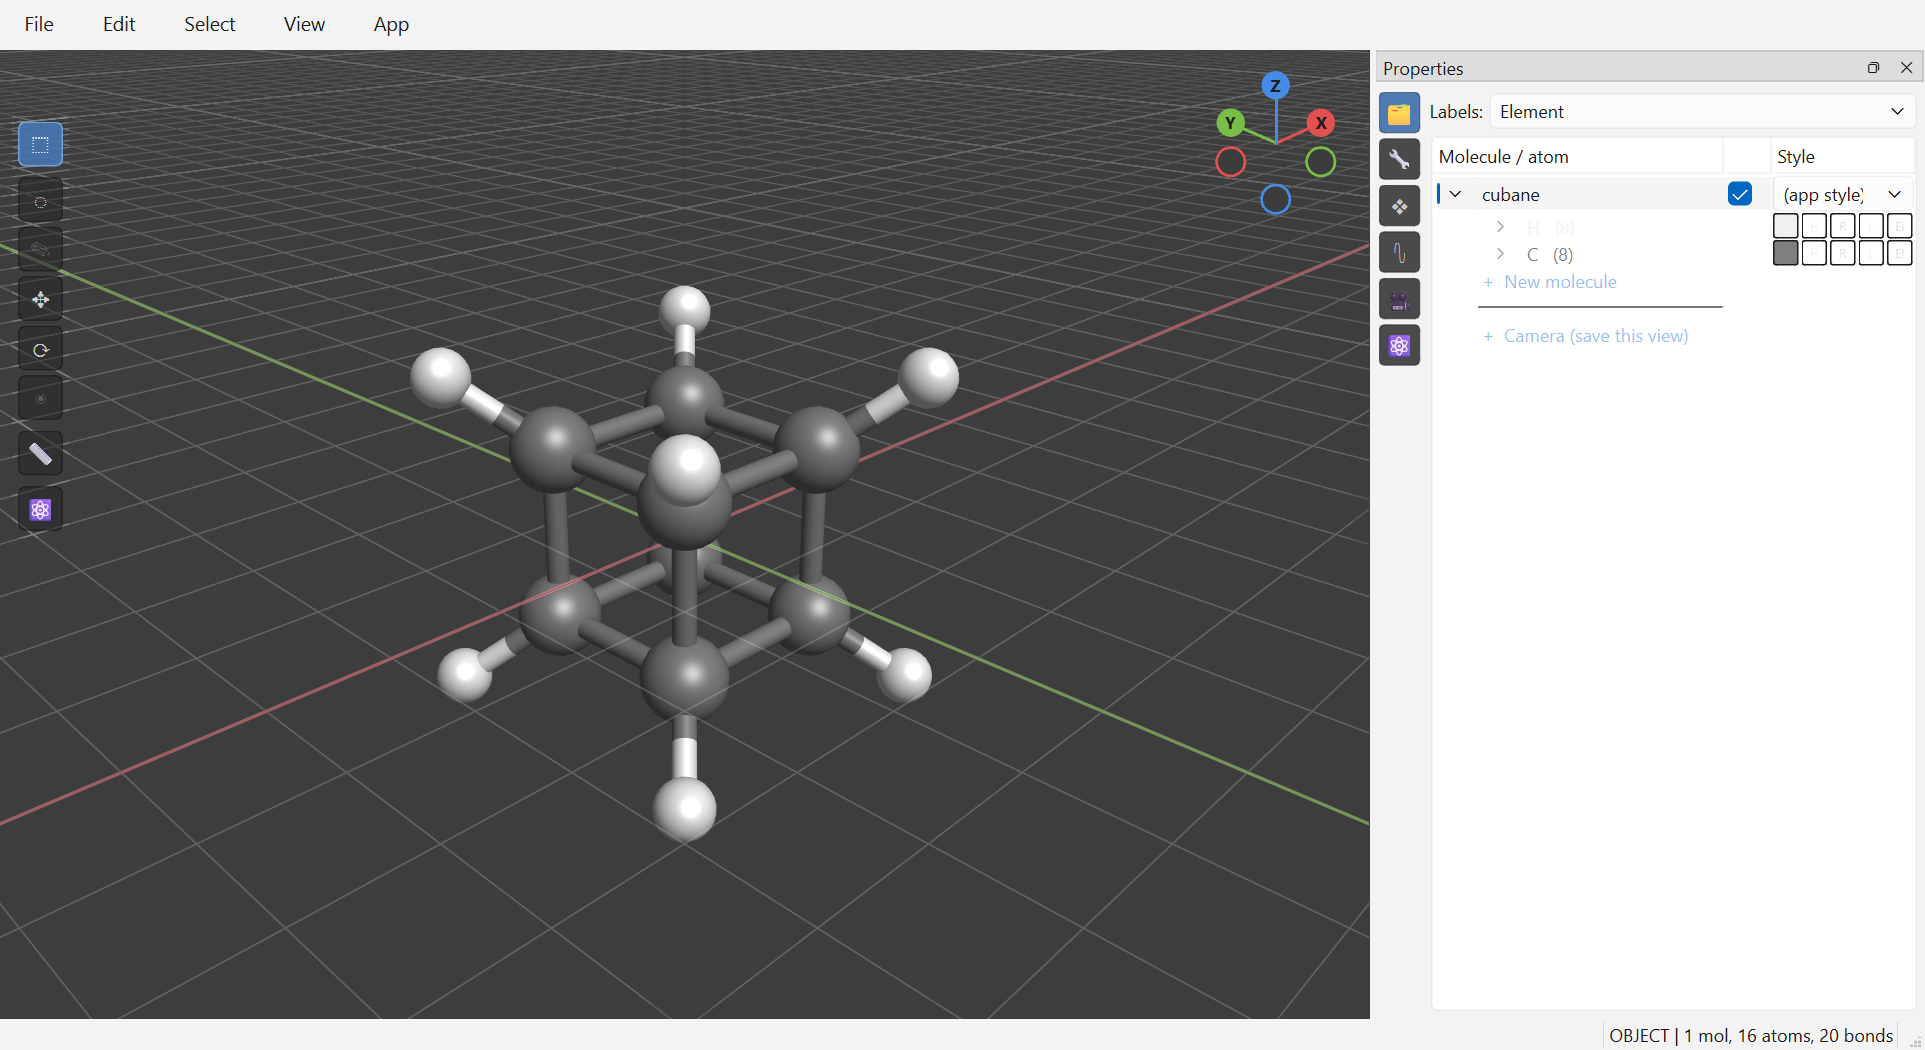
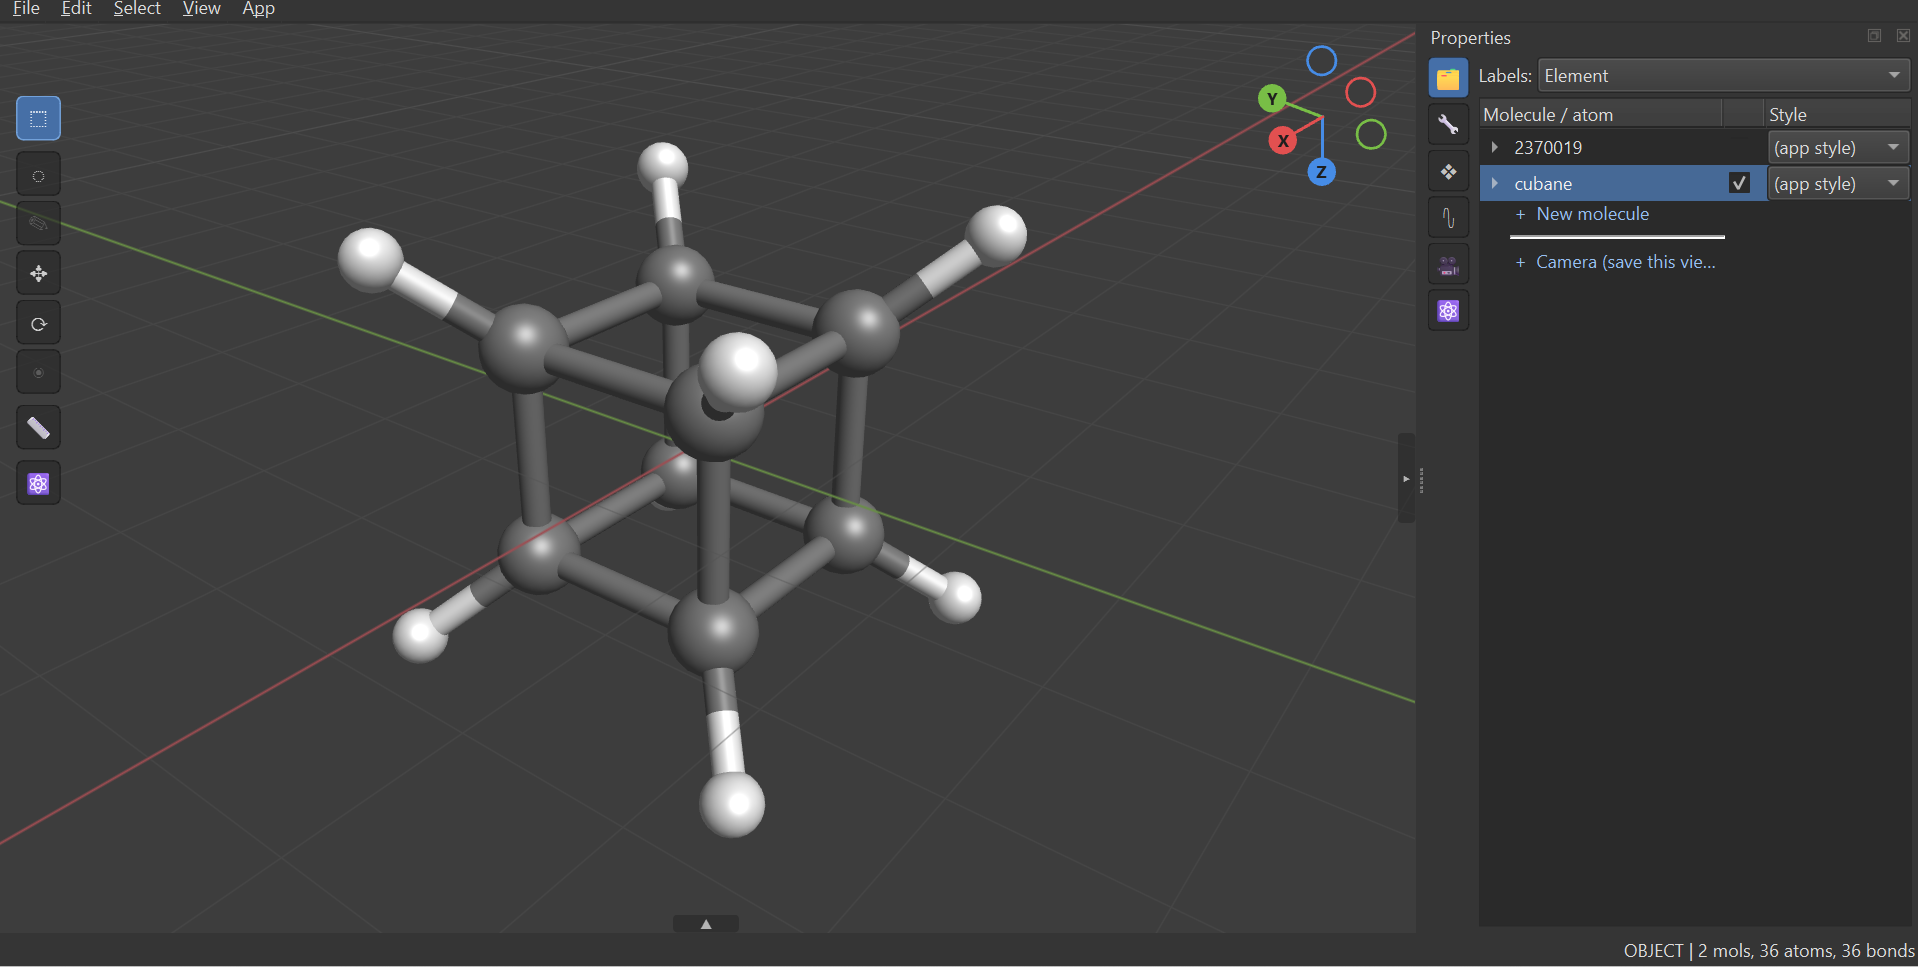
Real screenshots: multiple structures, two frequency jobs at once
Christian replaced the generated single-structure screenshots with his own,
deliberately showing several imported structures, crystals and two
simultaneous ORCA FREQ jobs sharing one scene rather than a clean default
scene per shot -- the point being to show off multi-structure handling.
docs/screenshots/README.md now says outright these are hand-picked, not
tool output, so tools/screenshots.py won't silently overwrite them later.

Also logs an observed-but-unreproduced bug: occupancy pie spheres on a
shared crystallographic site don't reliably survive switching from the
asymmetric unit to the full cell. Noted in CLAUDE.md with a concrete lead
(the site_occupancy map is exactly the kind of per-index state that's gone
stale across an atom-list rebuild before) and in the README's known rough
edges, left for later as agreed.

diff --git a/README.md b/README.md
@@ -5,9 +5,9 @@ Avogadro's chemistry with Blender's ergonomics, plus the crystallography that
 usually means opening VESTA or Mercury instead.
 
 Instanced-OpenGL ball-and-stick over a UI-free, offline-testable core.
-1265 tests, no display required to run them.
+1282 tests, no display required to run them.
 
-![MoloM viewport](https://raw.githubusercontent.com/ACH-Repo/ACH-MoloM/main/docs/screenshots/01-viewport.png)
+![Two imported structures side by side in MoloM's outliner](https://raw.githubusercontent.com/ACH-Repo/ACH-MoloM/main/docs/screenshots/01-viewport.png)
 
 ```bash
 pip install molom
@@ -38,7 +38,7 @@ Kekulé-alternating instead of stalling one double bond short.
 
 ### Crystallography that survives the import
 
-![Coordination polyhedra and the crystal page](https://raw.githubusercontent.com/ACH-Repo/ACH-MoloM/main/docs/screenshots/02-crystal-polyhedra.png)
+![A CIF drawn as its asymmetric unit — the handful of independent sites a space group expands](https://raw.githubusercontent.com/ACH-Repo/ACH-MoloM/main/docs/screenshots/02-asymmetric-unit.png)
 
 A CIF is not a coordinate file, so MoloM's own reader keeps the cell, the space
 group, the symmetry operators, the asymmetric unit, the occupancies and the
@@ -66,12 +66,15 @@ for free.
   re-derived from the coordinates, and says so. ASE and pymatgen both read the
   output exactly as they read the original.
 
-![Ferrocene packed whole](https://raw.githubusercontent.com/ACH-Repo/ACH-MoloM/main/docs/screenshots/03-packing.png)
+![The same file's full unit cell, with the crystal properties page open](https://raw.githubusercontent.com/ACH-Repo/ACH-MoloM/main/docs/screenshots/03-crystal-packing.png)
 
 Molecules are wrapped by *fragment* and completed across the cell faces, so
 nothing is cut in half at a boundary — and a framework, which percolates
 through the boundary and has no "whole" to complete, is detected and left
-alone rather than marched across the cell forever.
+alone rather than marched across the cell forever. The properties page
+alongside it reads off the cell parameters, volume, calculated density and the
+space group actually used — re-derived from the file's own Hall symbol here,
+since the file names its group without listing the operators.
 
 ### Editing that keeps the chemistry upright
 
@@ -97,7 +100,7 @@ force field has parameters for.
 
 ### Cameras, renders and Blender
 
-![Looking through a camera](https://raw.githubusercontent.com/ACH-Repo/ACH-MoloM/main/docs/screenshots/04-camera-view.png)
+![A saved camera framing three different crystal structures at once](https://raw.githubusercontent.com/ACH-Repo/ACH-MoloM/main/docs/screenshots/04-camera-view.png)
 
 Camera objects are saved viewpoints that ride the savefile: a pose, a focal
 length in millimetres against a sensor width, an explicit roll, and a
@@ -105,7 +108,9 @@ resolution plus a multiplier. Looking through one really frames the shot — the
 projection follows the film back, so what is inside the rectangle is what gets
 rendered. Drag a border to reshape the film, `Shift`+drag to re-frame, the
 wheel to zoom the frame; the camera itself never moves unless you say so.
-`F12` renders exactly that.
+`F12` renders exactly that — here composing three separate crystal structures,
+a coordination compound, a polyhedral framework and a simple ionic lattice,
+into one shot.
 
 Export goes to a **`.blend`**, built by invoking Blender headlessly so the file
 opens complete — no auto-run script, no trust prompt, just F12. Every atom and
@@ -116,7 +121,7 @@ coordination polyhedra come with it.
 
 ### Animation
 
-![A baked ORCA normal mode](https://raw.githubusercontent.com/ACH-Repo/ACH-MoloM/main/docs/screenshots/05-vibrations.png)
+![Two ORCA frequency jobs animating on separate timeline tracks, alongside several other imported structures](https://raw.githubusercontent.com/ACH-Repo/ACH-MoloM/main/docs/screenshots/05-vibrations.png)
 
 One scene clock, one playhead, a track per object with its own offset, speed
 and end mode — so several trajectories play together, staggered or at different
@@ -126,7 +131,9 @@ stops a turning molecule visibly contracting halfway through.
 
 ORCA normal modes are baked onto that same clock as ordinary frames, so a
 vibration plays, scrubs and exports with no vibration-specific code anywhere in
-the UI. Export is a PNG sequence with no extra dependency, or video through
+the UI — the two frequency jobs animating together above are just two more
+tracks, sharing the scene with everything else that has been imported into it.
+Export is a PNG sequence with no extra dependency, or video through
 `imageio-ffmpeg` — always encoded *from* the written sequence, so a failed
 encode still leaves every frame on disk.
 
@@ -191,6 +198,8 @@ ASE, pymatgen and each file's own formula × Z. Ligand templating works on
 synthetic cases but not yet reliably in real use. Editing a packed crystal is
 flagged rather than fully solved: the drawn boundary copies are independent
 atoms, so an edit is reported and you are pointed at "Asymmetric unit only".
+Occupancy pie spheres on a shared crystallographic site do not always survive
+switching from the asymmetric unit to the full cell — reported, not yet fixed.
 
 ## Credits
 

diff --git a/docs/screenshots/README.md b/docs/screenshots/README.md
@@ -1,34 +1,53 @@
 # Screenshots
 
-Generated by `tools/screenshots.py` — do not edit by hand.
+Hand-picked by Christian, not generated by `tools/screenshots.py` — that tool
+still exists and still works (its own default-scene shots are a fine sanity
+check after a UI change), but these were composed deliberately to show MoloM
+doing more than one thing at once: several structures imported side by side,
+two ORCA frequency jobs animating on independent timeline tracks, a camera
+frame composed around a whole scene. If you regenerate screenshots for the
+README, either keep these filenames pointing at hand-composed shots or update
+the README's captions to match whatever the tool produces instead.
 
 ### 01-viewport
 
-![01-viewport](01-viewport.png)
+![Outliner with two imported structures](01-viewport.png)
 
-Ball-and-stick viewport with the scene outliner. Avogadro 2's element data and exact sizing rules; Blender's ergonomics around them.
+Cubane (MoloM's default scene) sitting alongside a second structure imported
+on top of it — imports **add** to the scene and never replace, so building up
+a comparison is one import per structure, not one file per window.
 
-### 02-crystal-polyhedra
+### 02-asymmetric-unit
 
-![02-crystal-polyhedra](02-crystal-polyhedra.png)
+![A CIF's asymmetric unit, three independent sites](02-asymmetric-unit.png)
 
-CIF import that keeps the crystallography: space group and setting, symmetry operators, shared-site occupancies drawn as pie spheres, and closed coordination polyhedra with a VESTA-style specular sheen.
+A CIF drawn as its asymmetric unit only: the handful of crystallographically
+distinct fragments the space group expands into the full cell, inside the
+unit cell box.
 
-### 03-packing
+### 03-crystal-packing
 
-![03-packing](03-packing.png)
+![Ferrocene, full unit cell, with the crystal properties page open](03-crystal-packing.png)
 
-A molecular crystal drawn as a crystal: molecules are wrapped by fragment and completed across the cell faces, never cut in half at a boundary.
+The same file's full unit cell — molecules packed and completed across the
+cell faces — with the crystal properties page showing what the reader keeps:
+cell parameters, volume, calculated density, and the space group re-derived
+from the Hall symbol when the file names one without listing its operators.
 
 ### 04-camera-view
 
-![04-camera-view](04-camera-view.png)
+![Looking through a camera composed around three crystal structures](04-camera-view.png)
 
-Camera objects ride the savefile. Looking through one really frames the shot: drag a border to reshape the film, Shift+drag to re-frame, the wheel to zoom the frame. F12 renders exactly this, and the Blender export carries the camera over.
+A saved camera framing three different crystal structures at once — a
+coordination compound, a polyhedral framework, and a simple ionic lattice —
+composed together in one shot the way a figure for a paper would be.
 
 ### 05-vibrations
 
-![05-vibrations](05-vibrations.png)
+![Two ORCA frequency jobs animating on separate timeline tracks, alongside several other structures](05-vibrations.png)
 
-ORCA normal modes baked onto the scene clock, so a vibration plays, interpolates, sits on the multi-track timeline and exports through the same path as a trajectory.
-
+Two independent ORCA FREQ jobs baked onto the scene clock and playing at once
+on their own timeline tracks, with several other imported structures and
+molecules sharing the scene around them — the point being that a vibration is
+ordinary animation to MoloM, not a special mode that locks out everything
+else.

diff --git a/CLAUDE.md b/CLAUDE.md
@@ -119,6 +119,32 @@ so they only appear once `docs/screenshots/` is pushed to `main`. `twine check
 --strict` passes both artefacts; the built wheel was installed and its
 `--selftest` run. 1281 tests. **NOT UPLOADED — that is Christian's to run.**
 
+Round 59 follow-up, same day: Christian replaced the five generated screenshots
+with his own — deliberately NOT a clean-slate default scene per shot, because
+"I wanted to show off molom's performance and ability to visualise multiple
+structures at once." So the vibrations shot carries TWO independent ORCA FREQ
+jobs animating on separate timeline tracks alongside several other imported
+molecules and crystals, and the camera shot frames three different crystal
+structures — a coordination compound, a polyhedral framework and a simple
+ionic lattice — composed together in one shot. `docs/screenshots/README.md`
+says outright that these are hand-picked, not tool output, so a future
+`tools/screenshots.py` run does not silently overwrite them with a blander
+default-scene set.
+
+**Reported in passing, NOT reproduced or root-caused — logged for later,
+explicitly not urgent (Christian: "niche case... acceptable bug we can get to
+later"):** occupancy pie spheres appear not to propagate correctly from an
+asymmetric-unit view to the full-cell view. Round 42's `site_occupancy` map is
+keyed by DRAWN atom index and round 42/52's own lesson is that such a map has
+to be rebuilt (or explicitly carried) every time the atom list is regenerated
+— asym-unit -> full-cell is exactly that kind of rebuild, and round 51's
+`_sync_all` bug (a page not refreshed on the very same transition) is the
+shape of bug most likely to recur here. First step for whoever picks this up:
+reproduce on a real shared-site file (`cod_1547149_solid_solution.cif` is
+already vendored and is the file round 42 was written against) by switching
+Asymmetric unit only -> Full unit cell with occupancy pie spheres ticked, and
+check whether `site_occupancy`/`site_of` survives `packing.pack`'s rebuild.
+
 ## VERSION 0.2.0 (2026-08-03) — the line under the previous session
 (Round 34 sits above it, unreleased.)
 Everything below shipped between 0.1.0 and 0.2.0: the PC/mouse input preset,
